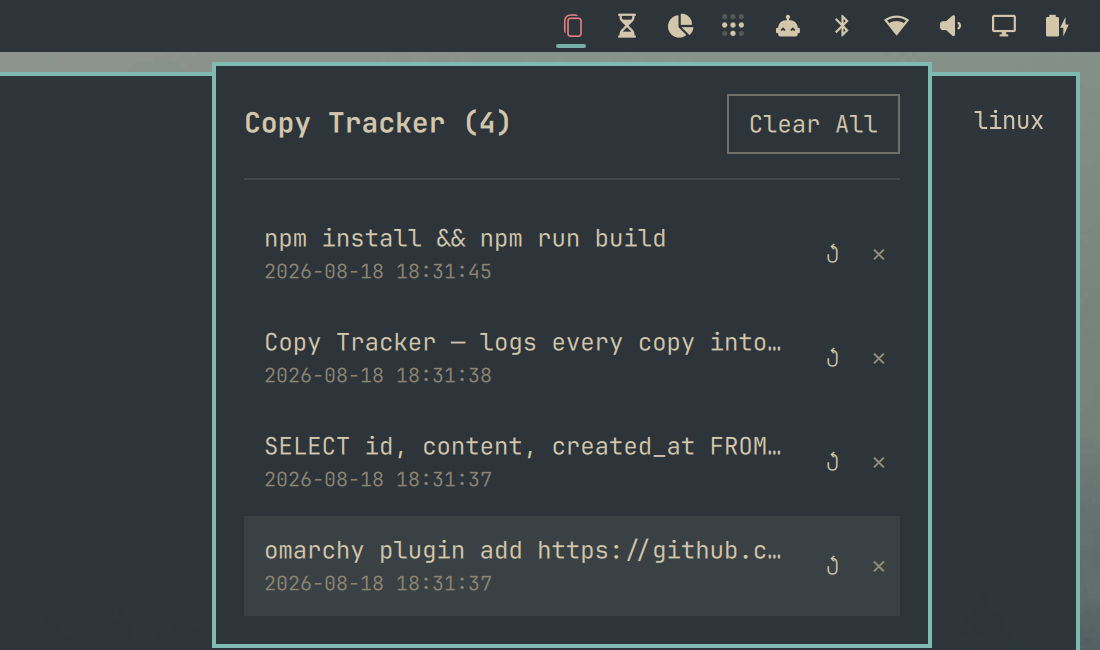
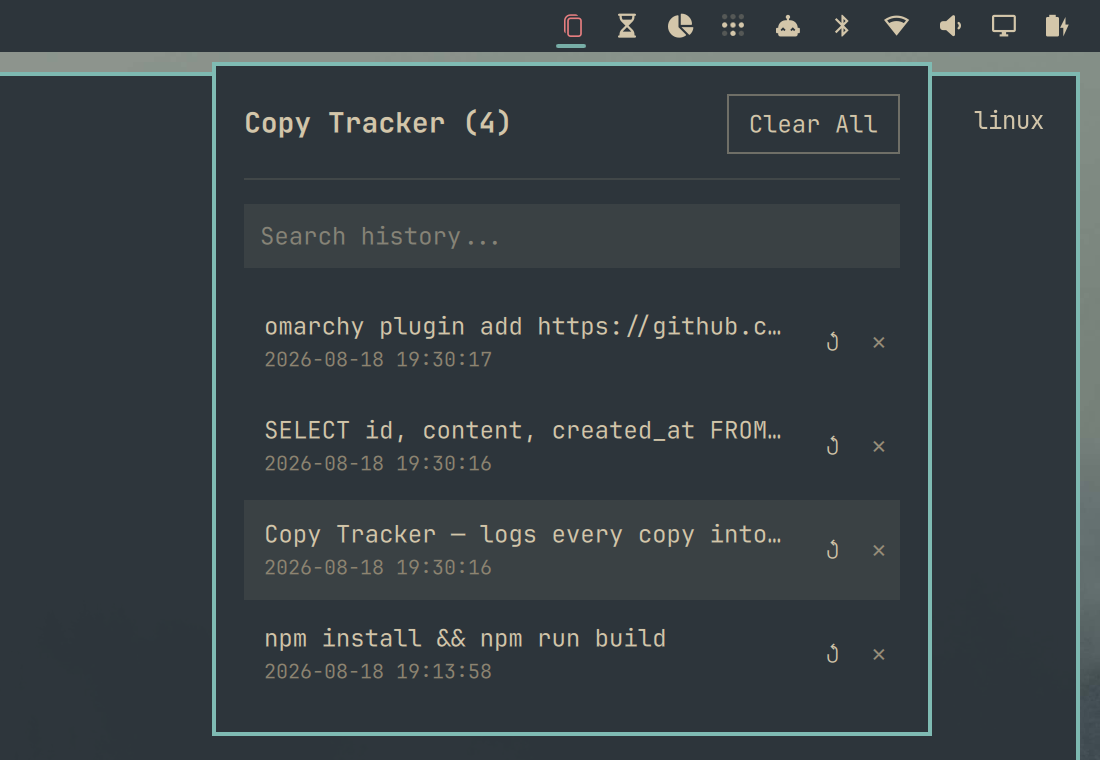
Document the search box in the README
The search-box screenshot and description were never committed alongside
the feature itself.

diff --git a/README.md b/README.md
@@ -2,8 +2,8 @@
 
 A clipboard history plugin for the [Omarchy](https://omarchy.org/) shell bar. Every copy
 action — text or image — is logged as a row in a local SQLite database as it happens. Click
-the bar icon to browse the history, re-copy any past entry back to the clipboard, or delete
-entries you don't need.
+the bar icon to browse the history, search it, re-copy any past entry back to the clipboard,
+or delete entries you don't need.
 
 ![Bar icon](docs/bar-icon.png)
 ![Popup](docs/popup.png)
@@ -76,8 +76,8 @@ if you also want to wipe the stored history.
 base component. Two background `wl-paste --watch` processes (one for text, one for images)
 call `track.sh`, which owns the SQLite schema and every read/write query. The panel shells out
 to `track.sh list` (optionally with a search query, debounced as you type) to populate the
-popup and to `track.sh copy`/`delete`/`clear` for actions —
-no QML-side clipboard or database logic beyond that.
+popup and to `track.sh copy`/`delete`/`clear` for actions — no QML-side clipboard or database
+logic beyond that.
 
 ## License
 
